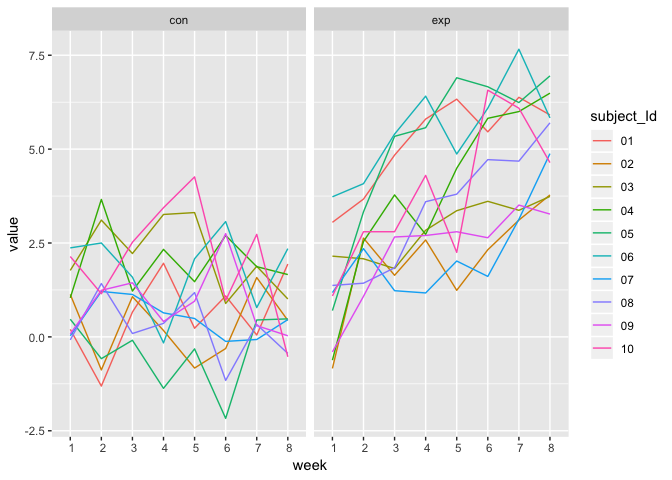
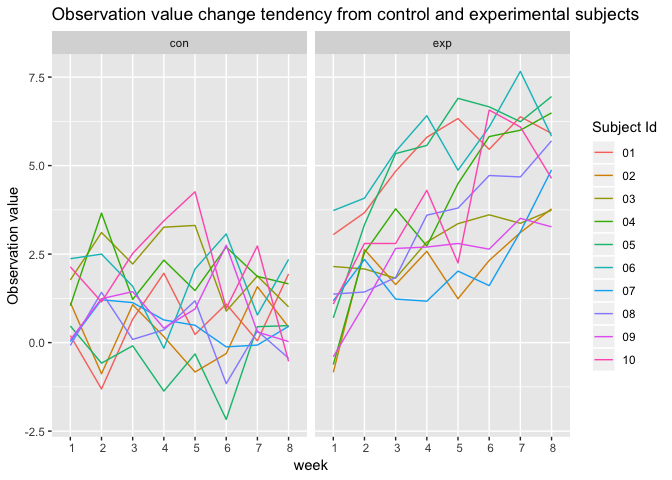
why 51 cities?? Tulsa??

diff --git a/xw2598_hw5.md b/xw2598_hw5.md
@@ -3,10 +3,10 @@ hw5\_xw2598
 Xinyao Wu
 2018/11/4
 
-#### library
-
 Problem 1
 ---------
+
+\*tidy data
 
 ``` r
 #a dataframe containing all file names
@@ -37,14 +37,26 @@ mutate(map(file_ls$path,read_data)) %>%
   ) 
 ```
 
+\*make a plot
+
 ``` r
 file %>% 
 ggplot(aes(x = week, y = value, group= subject_Id,color = subject_Id))+
   geom_line()+
-  facet_grid(~group)
+  facet_grid(~group)+
+ 
+  labs(
+    y = "Observation value",
+    color = "Subject Id",
+    title = "Observation value change tendency from control and experimental subjects "
+  )
 ```
 
-![](xw2598_hw5_files/figure-markdown_github/make_plots-1.png) \#Comments:
+![](xw2598_hw5_files/figure-markdown_github/make_plots-1.png)
+
+#### Comments:
+
+The observation value change from control group are more static than the experimental group, the latter has an obvious increasing tendency over time.
 
 Problem2
 --------
@@ -55,9 +67,18 @@ Problem2
 wp_df = read.csv("https://raw.githubusercontent.com/washingtonpost/data-homicides/master/homicide-data.csv") %>% 
 janitor::clean_names() %>% 
   mutate(city_state = str_c(city,state,sep = ","))
+
+#date range 
+pull(wp_df,reported_date) %>%
+  as.character() %>% 
+  range()
+## [1] "20070101" "20171231"
+#victim age range
+pull(wp_df,victim_age) %>%as.character() %>% as.integer() %>% range(na.rm =TRUE)
+## [1]   0 102
 ```
 
-#### Describe the raw data.
+#### Describe the raw data:
 
 ``` r
 #calculated the total number of homicides and unsolved homicides
@@ -118,18 +139,23 @@ prop_df = homicide %>%
          )  %>% 
   unnest() %>% 
   select(city_state, estimate, conf.low, conf.high) 
-head(prop_df)
+prop_df
 ```
 
-    ## # A tibble: 6 x 4
-    ##   city_state     estimate conf.low conf.high
-    ##   <chr>             <dbl>    <dbl>     <dbl>
-    ## 1 Albuquerque,NM    0.386    0.337     0.438
-    ## 2 Atlanta,GA        0.383    0.353     0.415
-    ## 3 Baltimore,MD      0.646    0.628     0.663
-    ## 4 Baton Rouge,LA    0.462    0.414     0.511
-    ## 5 Birmingham,AL     0.434    0.399     0.469
-    ## 6 Boston,MA         0.505    0.465     0.545
+    ## # A tibble: 51 x 4
+    ##    city_state     estimate conf.low conf.high
+    ##    <chr>             <dbl>    <dbl>     <dbl>
+    ##  1 Albuquerque,NM    0.386    0.337     0.438
+    ##  2 Atlanta,GA        0.383    0.353     0.415
+    ##  3 Baltimore,MD      0.646    0.628     0.663
+    ##  4 Baton Rouge,LA    0.462    0.414     0.511
+    ##  5 Birmingham,AL     0.434    0.399     0.469
+    ##  6 Boston,MA         0.505    0.465     0.545
+    ##  7 Buffalo,NY        0.612    0.569     0.654
+    ##  8 Charlotte,NC      0.300    0.266     0.336
+    ##  9 Chicago,IL        0.736    0.724     0.747
+    ## 10 Cincinnati,OH     0.445    0.408     0.483
+    ## # ... with 41 more rows
 
 ### comments
 
@@ -142,9 +168,10 @@ prop_df %>%
     axis.text.x = element_text(angle = 90,hjust = 1,size = 6.5)
   )+
   labs(
-    title = "The proportions of unsolved homicides in each city",
+    title = "The proportions of unsolved homicides in some US cities",
     y = "Proportion of unsolved homicides",
-    x = "City"
+    x = "City",
+    caption = "Data from Washington post"
   )
 ```
 
